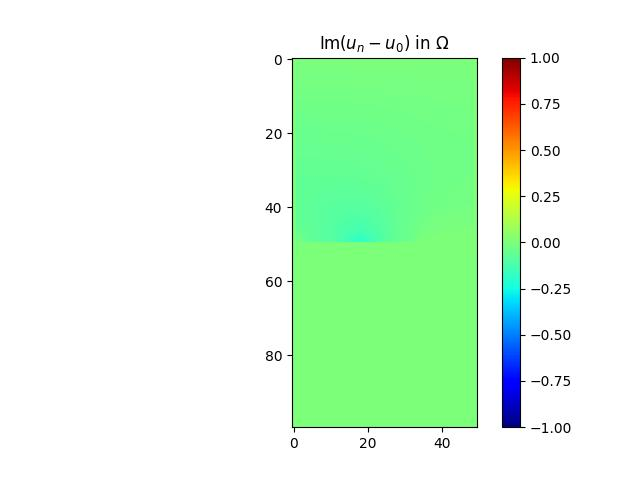
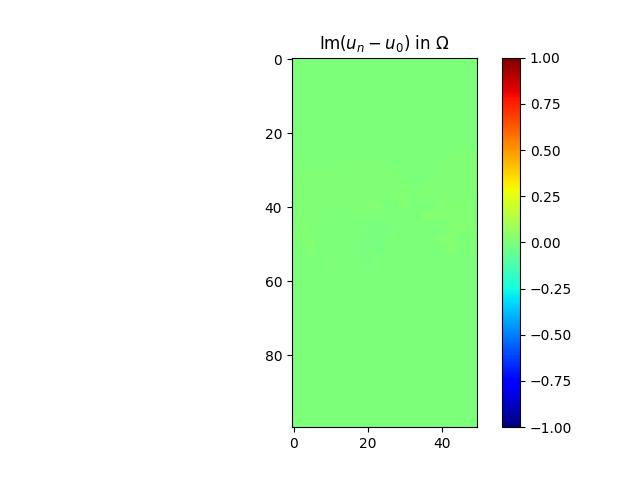
Test fractal avec g initial

Changed region(s): [[0.4375, 0.2812, 0.6562, 0.5312]]

diff --git a/demo_control_polycopie2023.py b/demo_control_polycopie2023.py
@@ -173,7 +173,7 @@ def projection_finale(chi, V_obj):
          for j in range (N):
               table.append((chi[i,j],(i,j)))
 
-    table= sorted(table)
+    table= sorted(table, reverse=True)
     chi1=numpy.zeros((M,N))
     nbre_de_uns = int(V_obj*N)
     for i in range(nbre_de_uns): 
@@ -315,7 +315,7 @@ if __name__ == '__main__':
     # -- set parameters of the geometry
     N = 50  # number of points along x-axis
     M = 2 * N  # number of points along y-axis
-    level = 0 # level of the fractal
+    level = 2 # level of the fractal
     spacestep = 1.0 / N  # mesh size
     
     # Material = [phi, gamma_p, sigma, rho_0, alpha_h, c_0]
